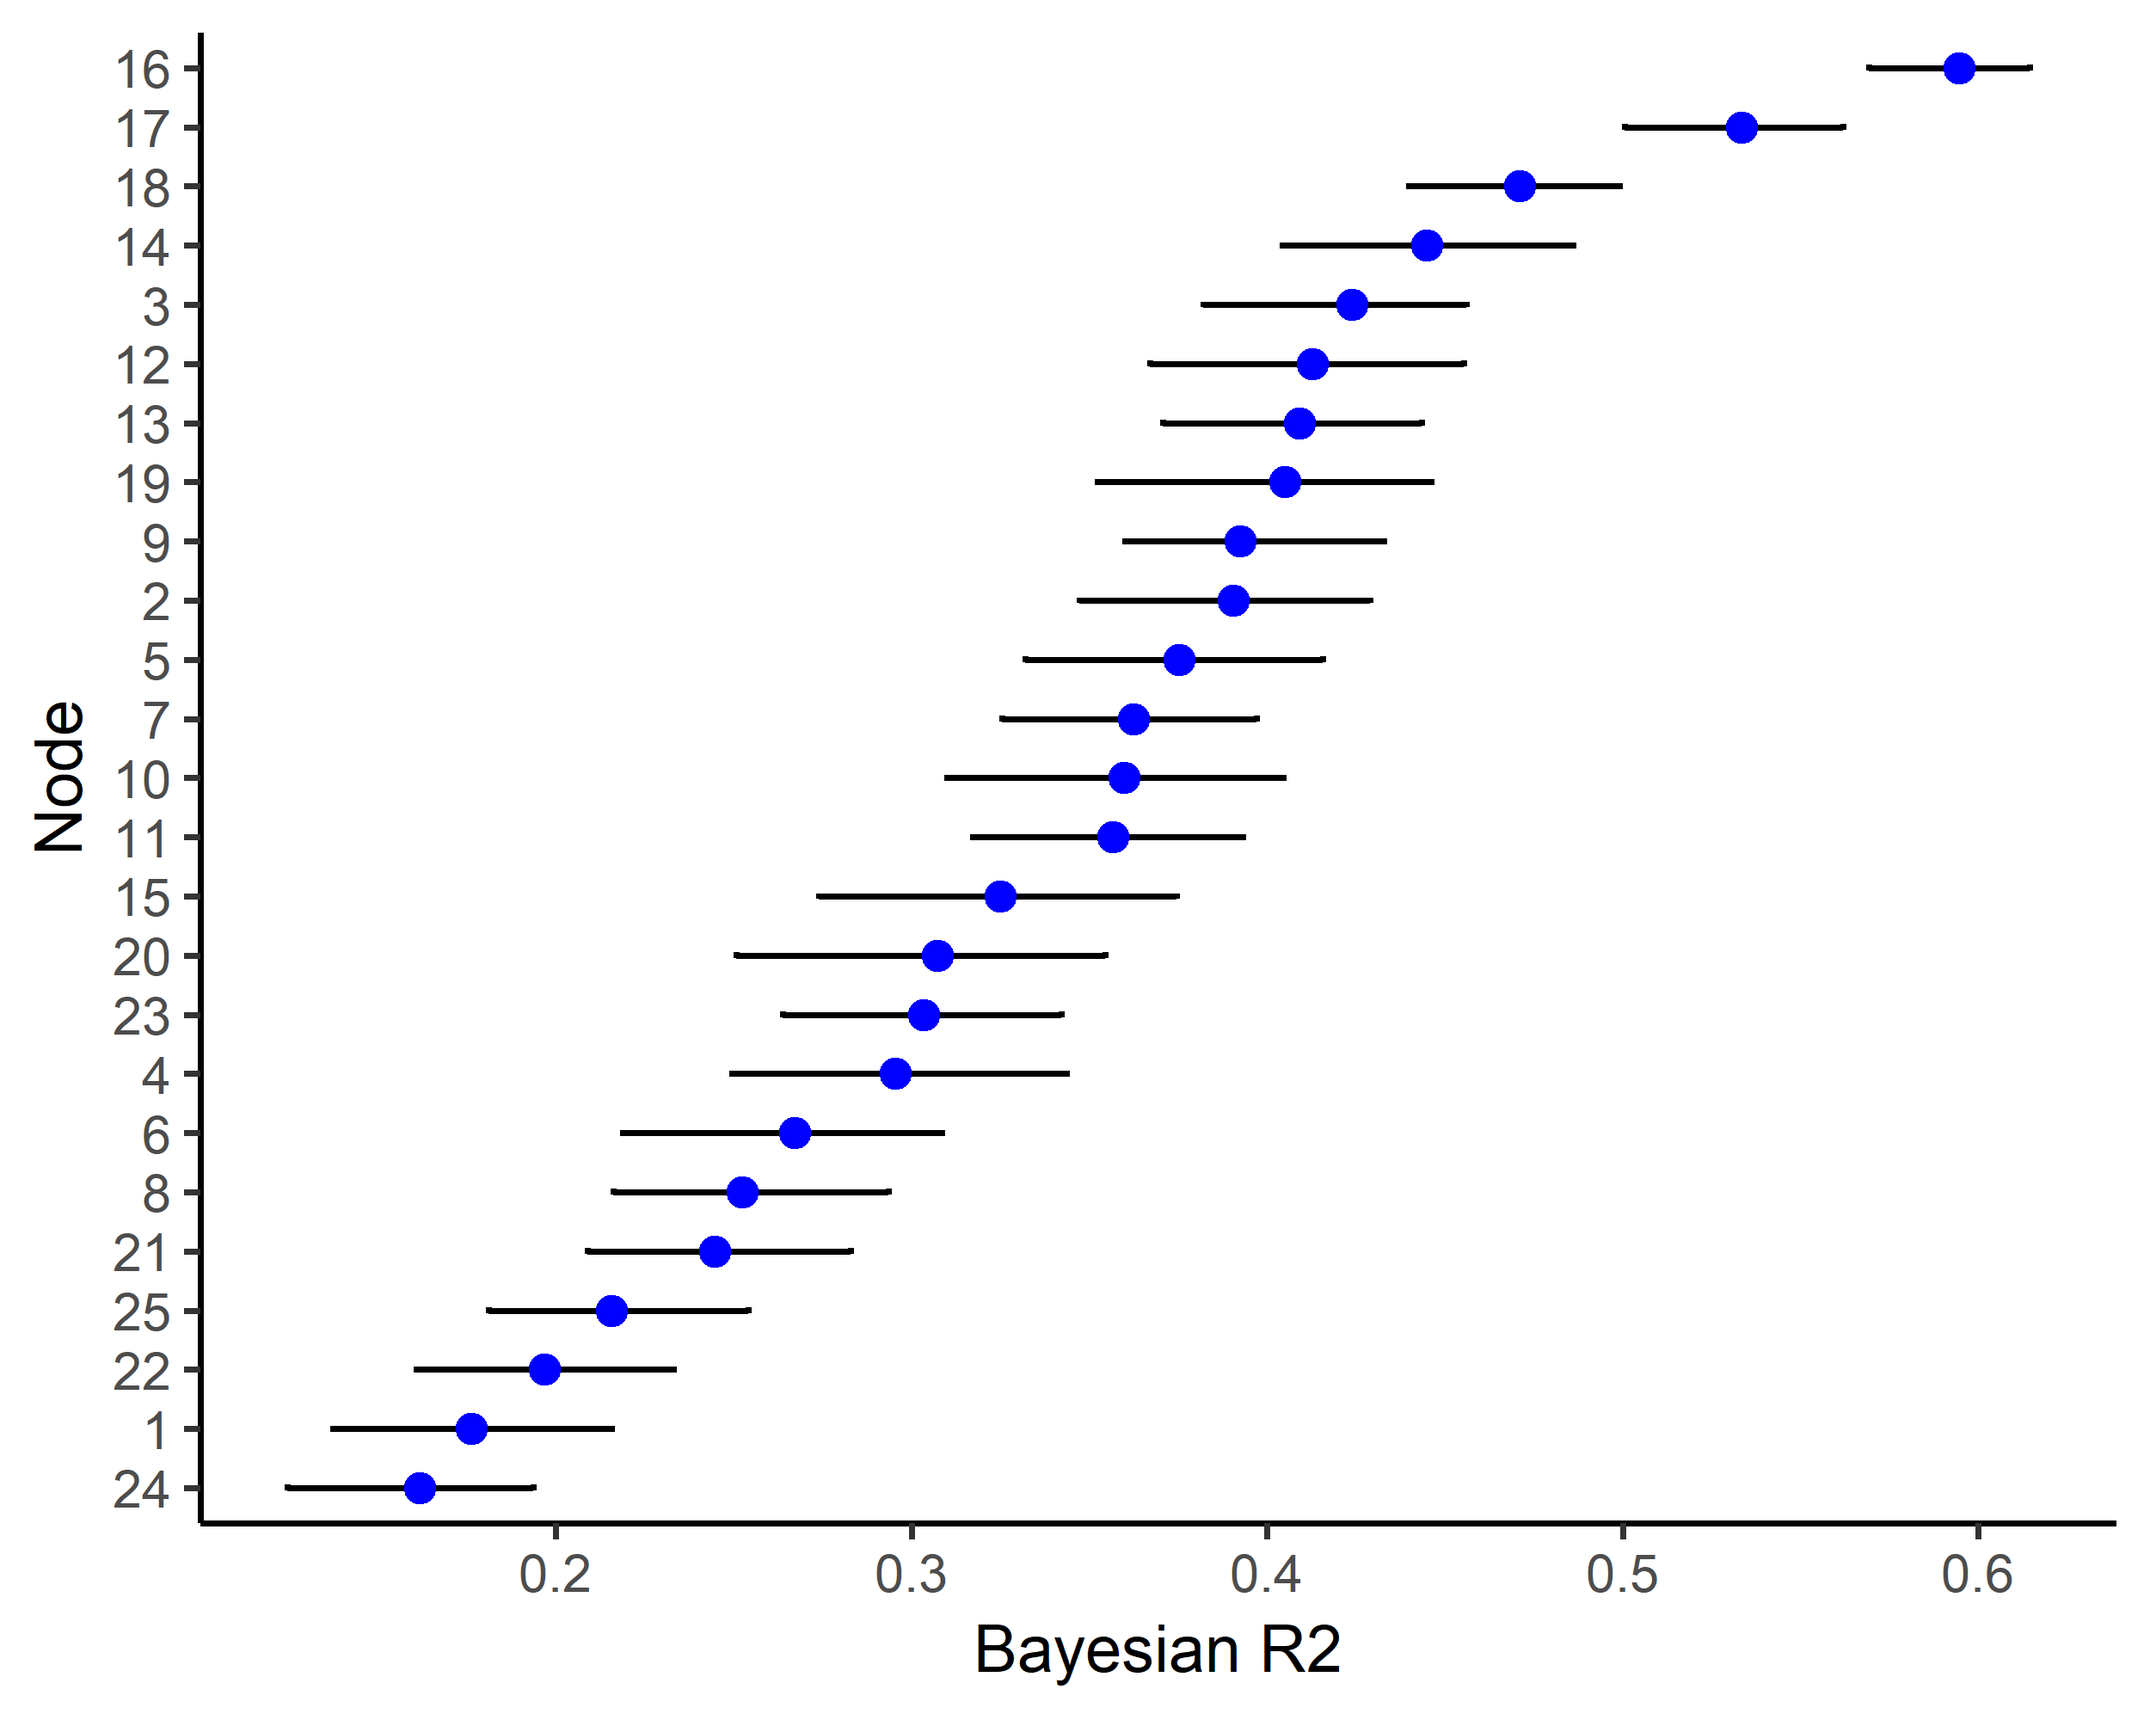
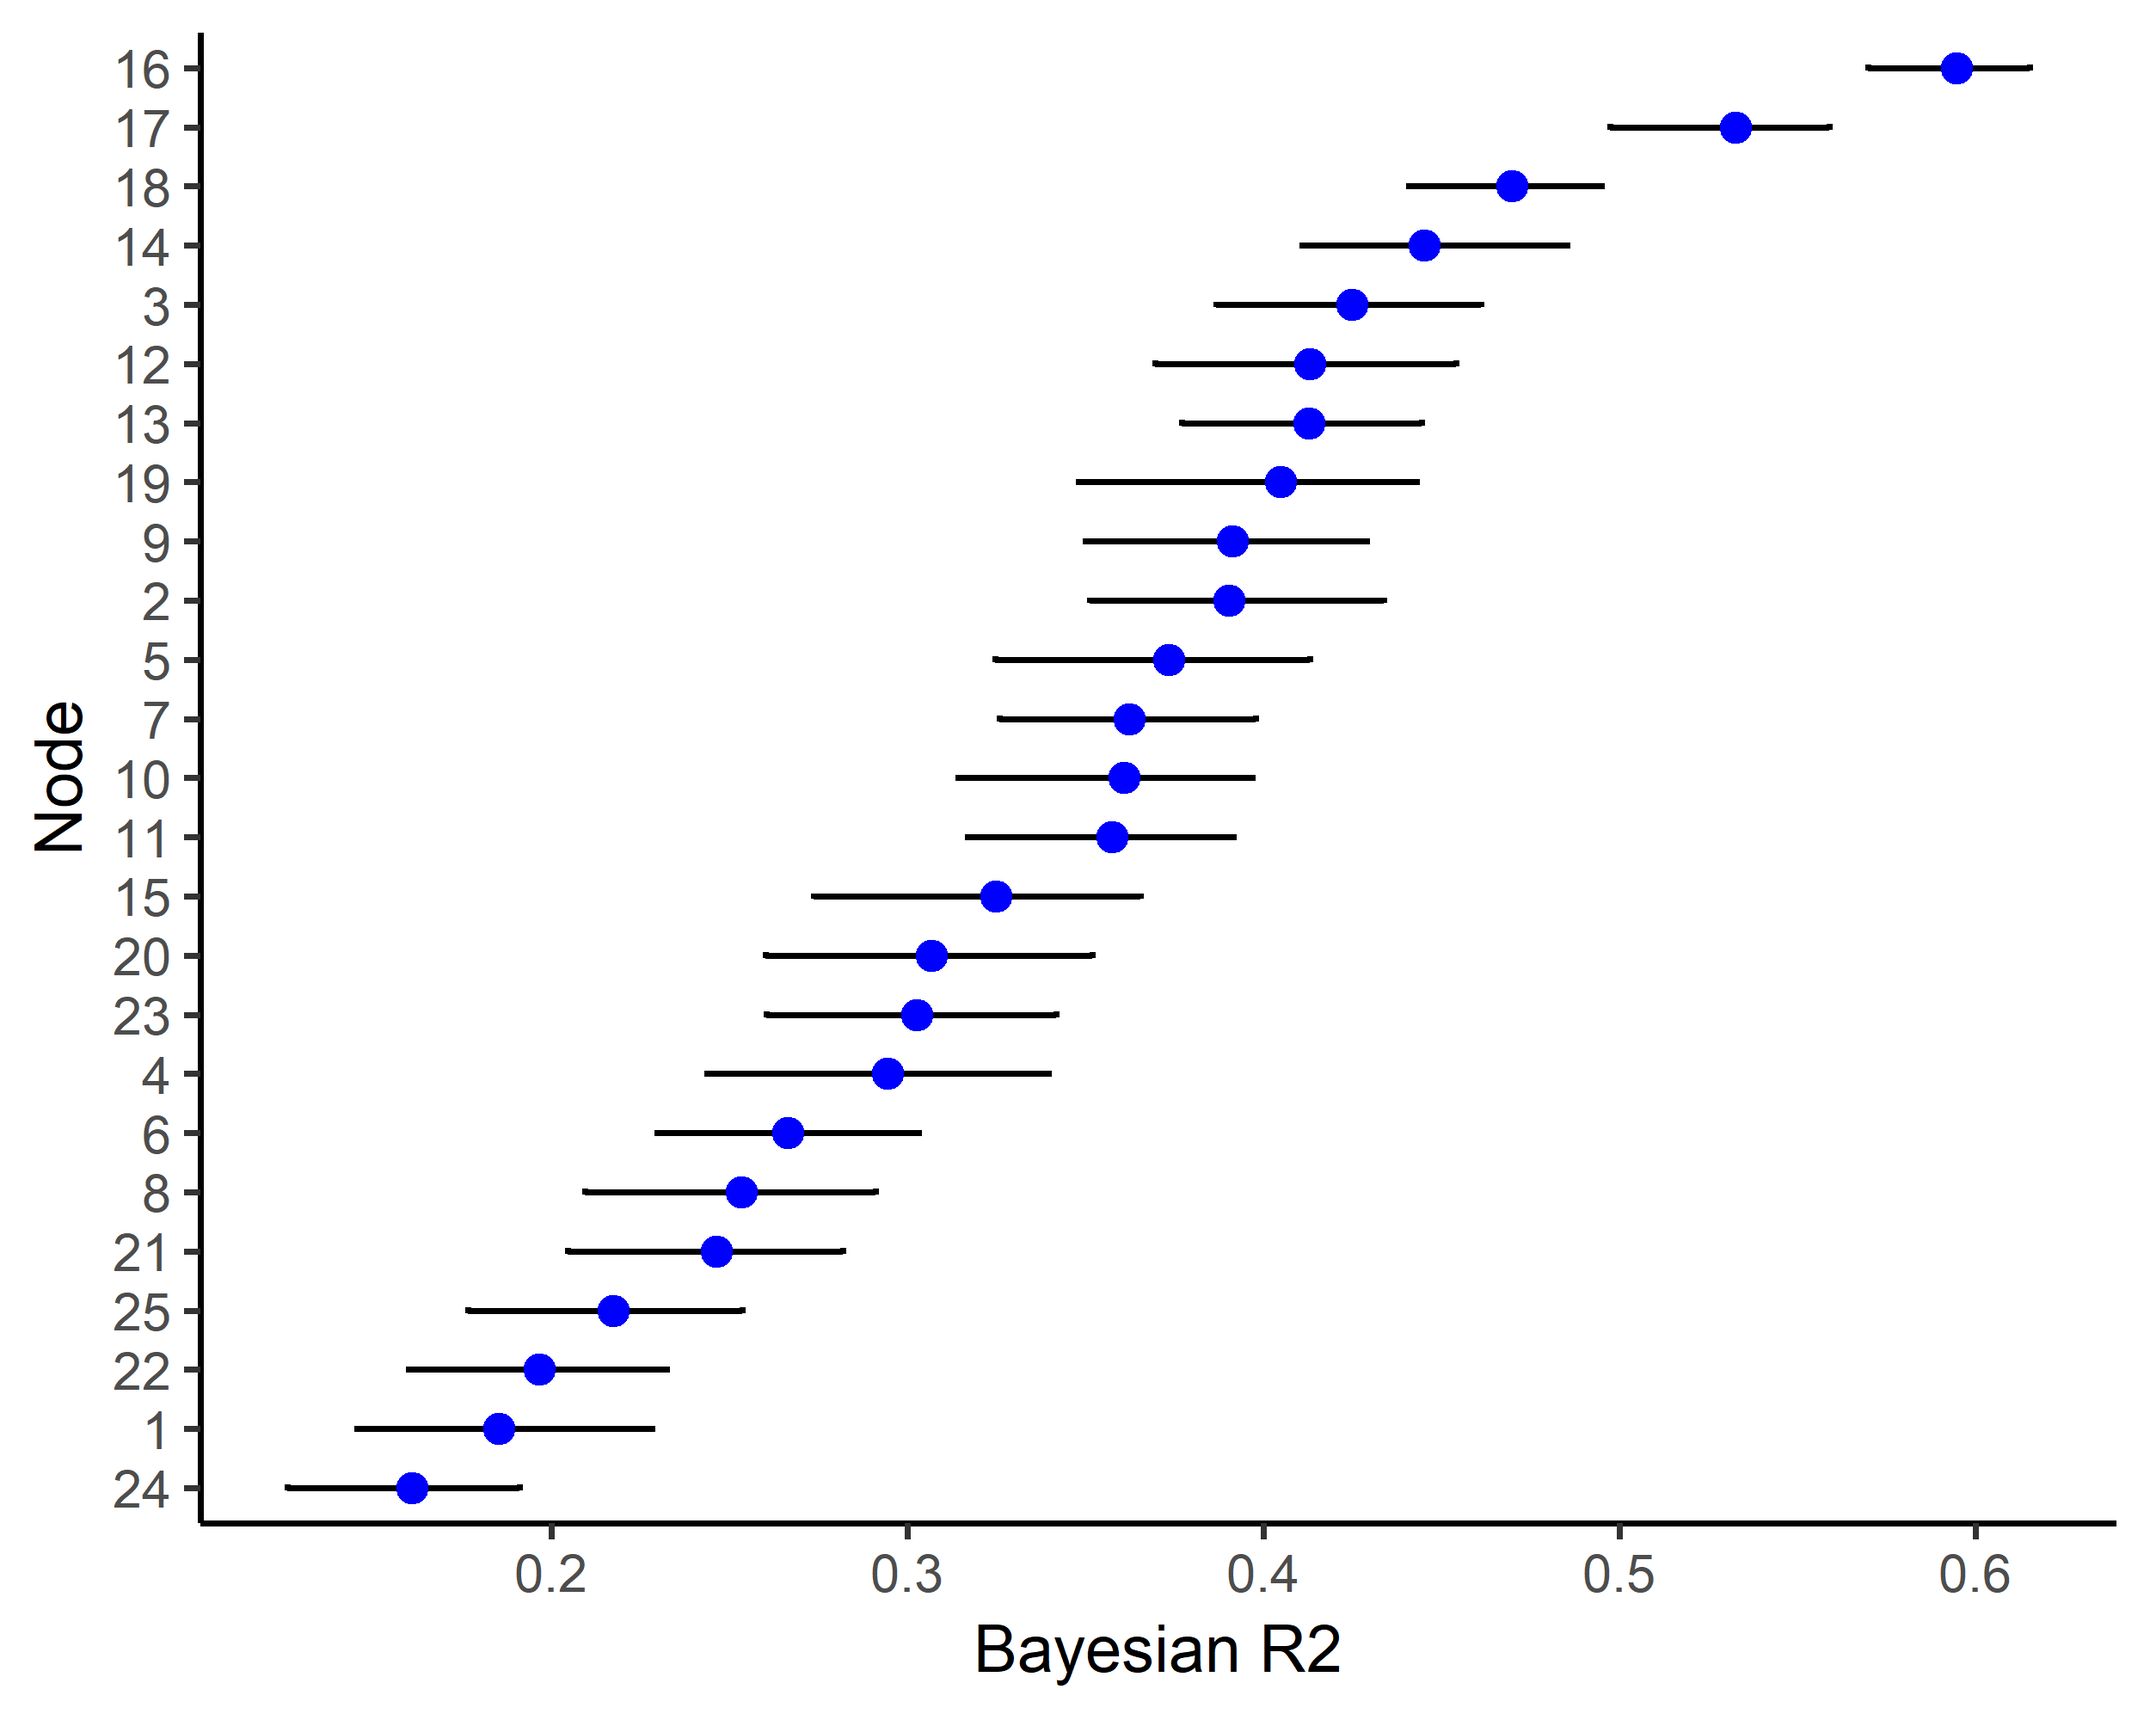
remove mention of bootstrap. save for blog

diff --git a/README.md b/README.md
@@ -70,7 +70,7 @@ qgraph::qgraph(select_graph$partial_mat)
 
 Note that all the effects are now positive (i.e., the color green).
 
-To date, the conditional independence structure of personality has not been directly assessed. Let us examine for which relations there is evidence for the null hypothesis.
+To date, the conditional independence structure of personality has not been directly assessed. Let us examine for which relations there is evidence for the null hypothesis:
 
 ``` r
 # select the network (threshold of 3; two-sided)
@@ -90,9 +90,9 @@ Finally, for those interested in the substantive aspect of these networks, pleas
 
 There is a direct correspondence between the precision matrix, that is the inverse of the covariance matrix, and multiple regression. The details are provided ([here](https://donaldrwilliams.github.io/post/2019-10-1-r-markdown/)). Rather than fit a sequence of regression models (i.e., neighborhood selection), as in the R package [GGMnonreg](https://github.com/donaldRwilliams/GGMnonreg), it is possible to only estimate the precision matrix and then transform the elements to their respective regression counterparts. This approach is described in Williams (2018).
 
-With the regression coefficients in-hand, it is then possible to compute *R*<sup>2</sup> for each node in the network. Similar approaches are sometimes used in the social-behavioral sciences. Here the GGMs are often estimated with ℓ<sub>1</sub>-regularization and the reported *R*<sup>2</sup> is a point estimate. This is problematic, because it can be misleading to note that one node has higher *R*<sup>2</sup> than another when there is not a measure of uncertainty. The present methods overcome this limitation with Bayesian *R*<sup>2</sup> that is described [here](http://www.stat.columbia.edu/~gelman/research/unpublished/bayes_R2.pdf)
+With the regression coefficients in-hand, it is then possible to compute *R*<sup>2</sup> for each node in the network. Similar approaches are sometimes used in the social-behavioral sciences. Here the GGMs are often estimated with ℓ<sub>1</sub>-regularization and the reported *R*<sup>2</sup> is a point estimate. This is problematic, because it can be misleading to note that one node has higher *R*<sup>2</sup> than another when there is not a measure of uncertainty. The present methods comptue Bayesian *R*<sup>2</sup> that is described [here](http://www.stat.columbia.edu/~gelman/research/unpublished/bayes_R2.pdf)
 
-JAGS will need to be installed to estimate this model ([link](https://sourceforge.net/projects/mcmc-jags/files/))
+JAGS will need to be installed to estimate this model ([link](https://sourceforge.net/projects/mcmc-jags/files/)).
 
 The following code fits the model, then selects the graph, and finally computes Bayesian *R*<sup>2</sup> conditional on the fitted model:
 
@@ -113,13 +113,11 @@ Here are the results for the first 5 nodes:
 
 |     |  post\_mean|   post\_sd|       0.5%|      99.5%|
 |-----|-----------:|----------:|----------:|----------:|
-| A1  |   0.1763431|  0.0156027|  0.1372135|  0.2155447|
-| A2  |   0.3904883|  0.0162905|  0.3472217|  0.4288337|
-| A3  |   0.4238384|  0.0145248|  0.3819263|  0.4559821|
-| A4  |   0.2955242|  0.0180556|  0.2495075|  0.3434673|
-| A5  |   0.3753671|  0.0168617|  0.3319761|  0.4156472|
-
-Note that the R package mgm can also compute *R*<sup>2</sup>, but only provides point estimates. It would be possible to apply the bootstrap. However, then *R*<sup>2</sup> would not be conditional on the fitted model and posterior distributions but instead would capture sampling variability.
+| A1  |   0.1851253|  0.0168115|  0.1453836|  0.2282809|
+| A2  |   0.3903337|  0.0157331|  0.3512112|  0.4337891|
+| A3  |   0.4248438|  0.0150871|  0.3867440|  0.4612122|
+| A4  |   0.2944465|  0.0192016|  0.2436344|  0.3396721|
+| A5  |   0.3732935|  0.0177519|  0.3246199|  0.4129309|
 
 The package BGGM can also plot the results:
 
